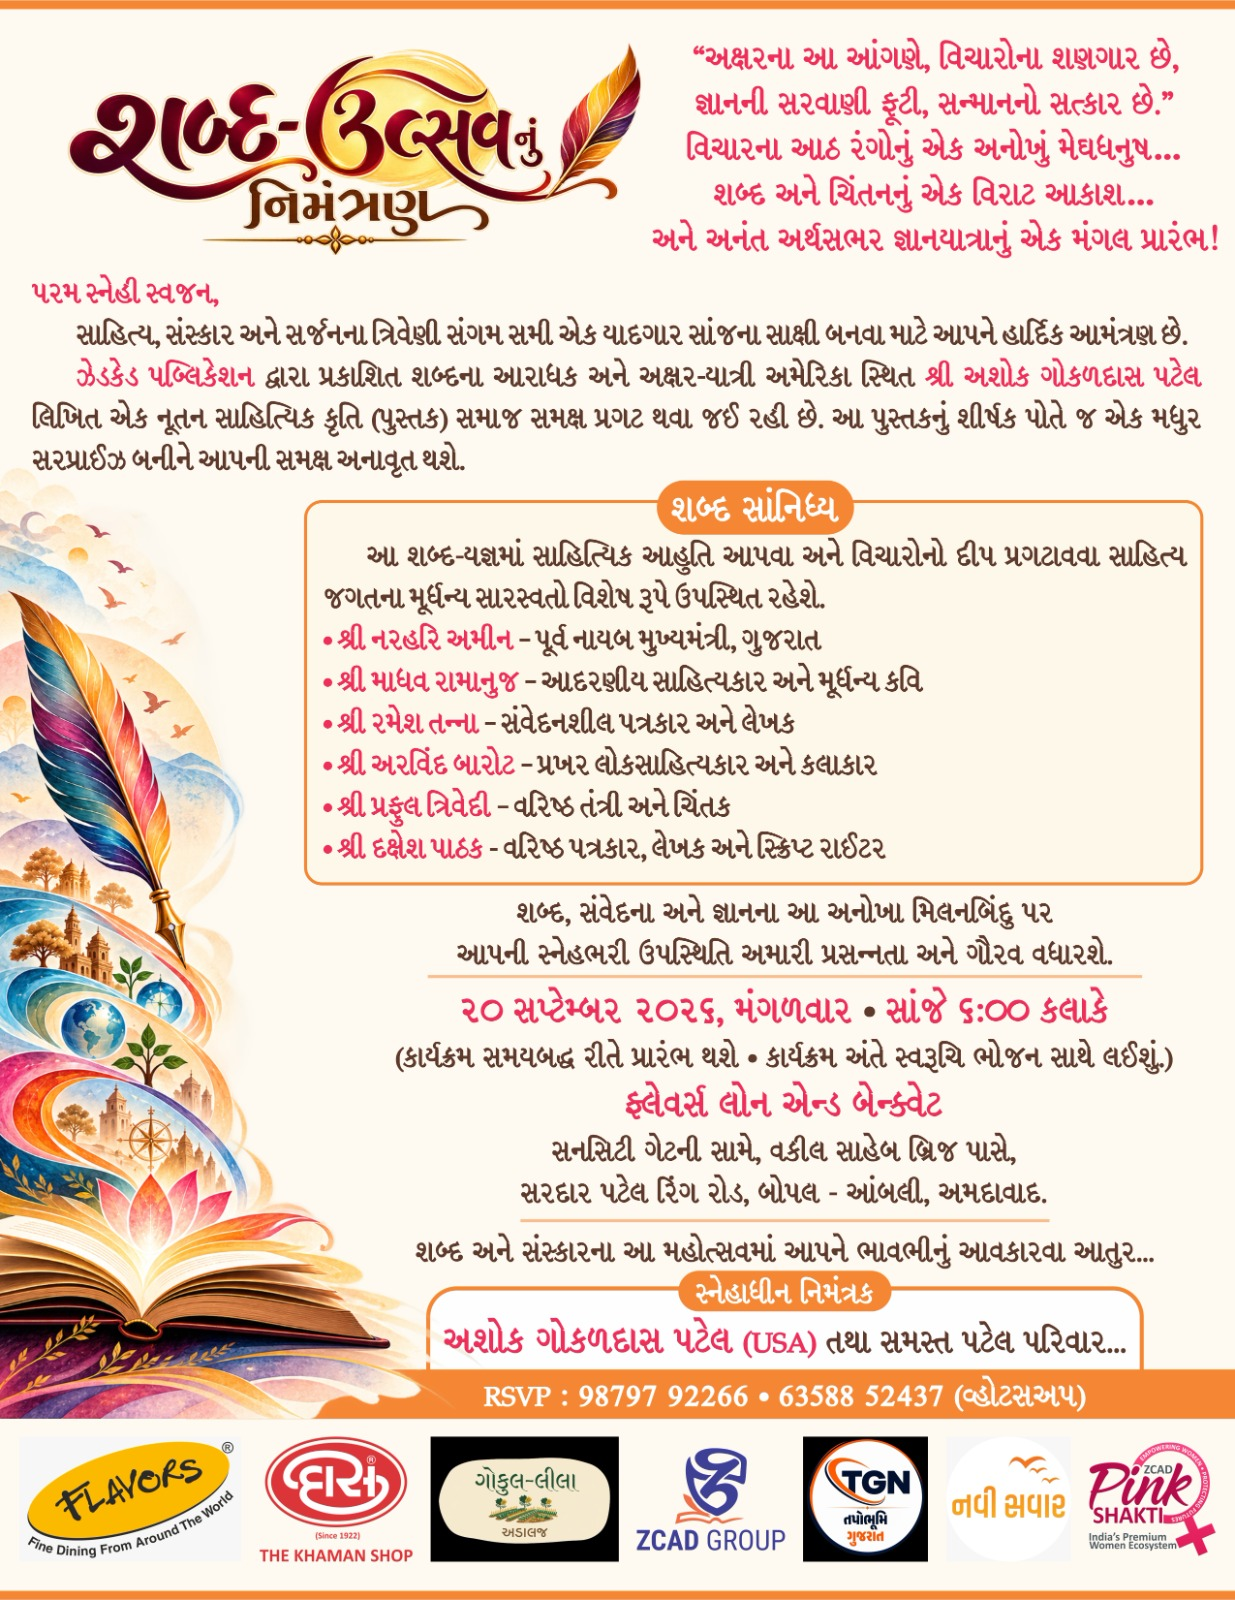
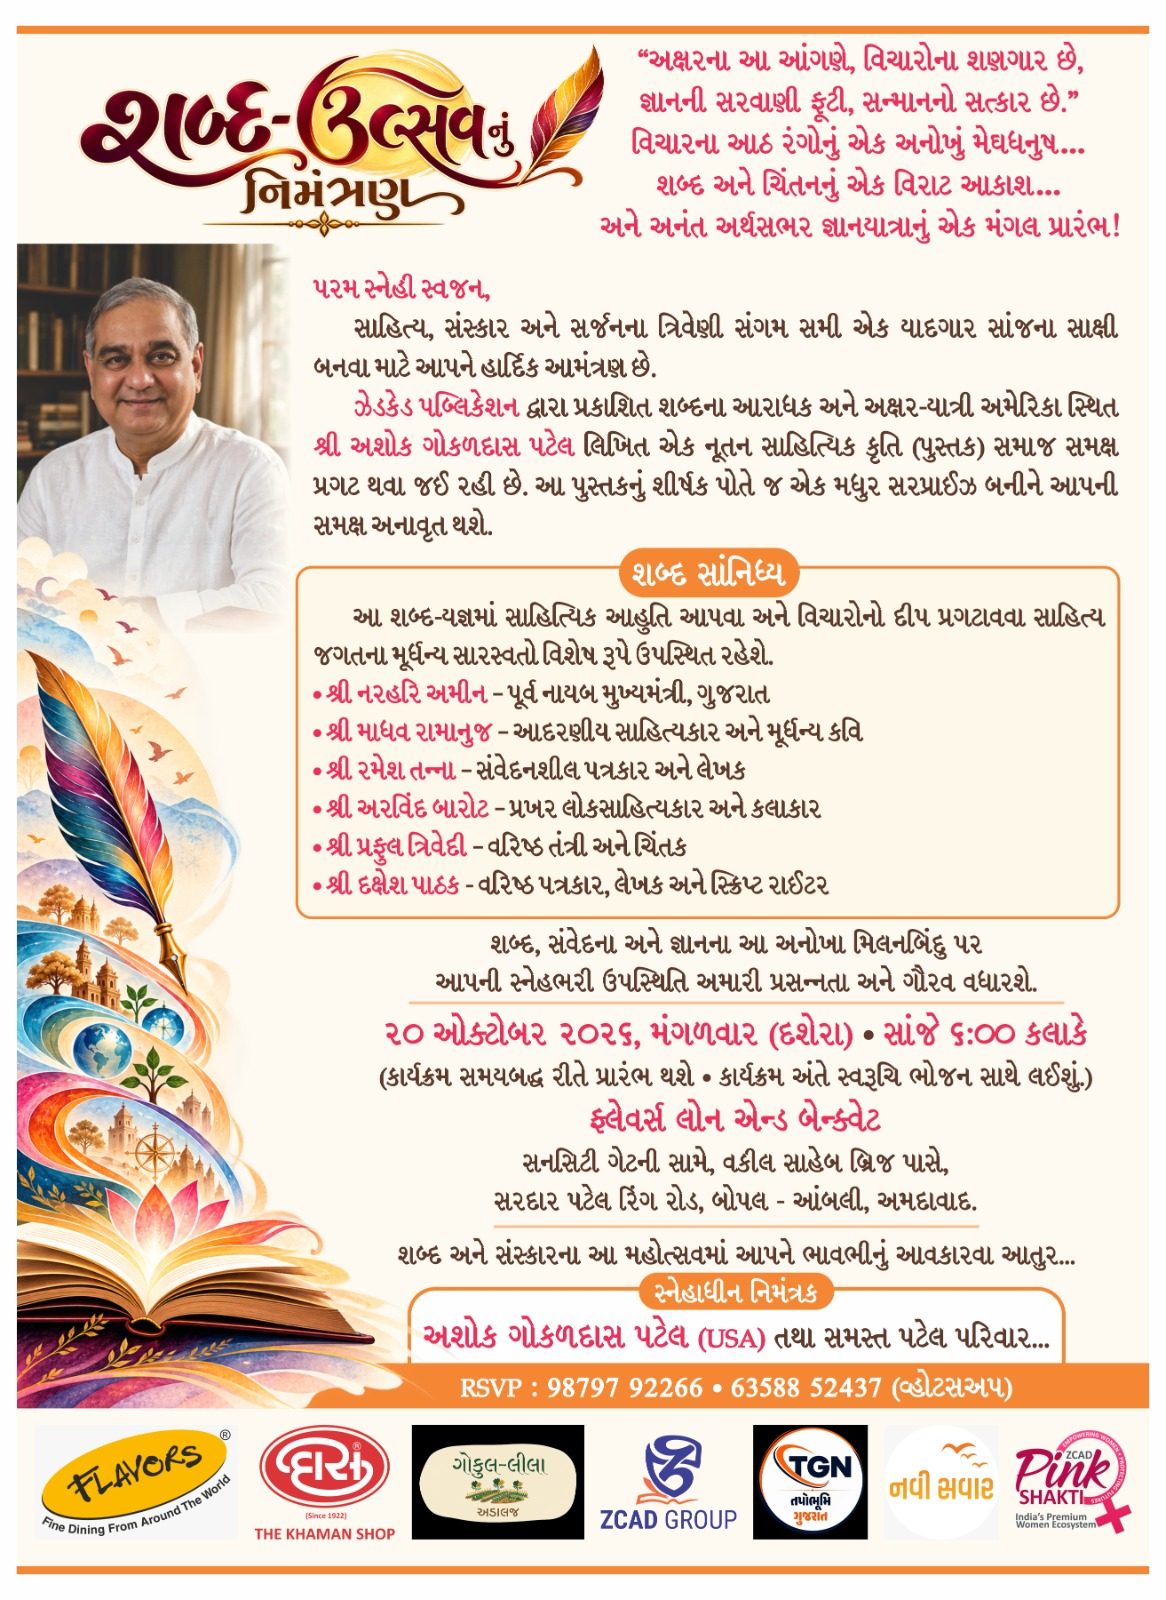
update

diff --git a/index.html b/index.html
@@ -192,7 +192,7 @@
             <p>‘શબ્દ-ઉત્સવ’ અંતર્ગત આયોજિત મારા નૂતન પુસ્તકના વિમોચન સમારોહમાં આપશ્રીની ગરિમામય ઉપસ્થિતિ પ્રેરણારૂપ બની રહેશે. આપના સ્નેહ આશિષ અને પ્રેરણાદાયી શબ્દોથી આ સાહિત્યિક સંધ્યાની શોભા વધારવા આપને ભાવભર્યું આમંત્રણ છે.</p>
             
             <div class="details-box">
-                <p><strong>📅 દિન વિશેષ:</strong> ૨૦ ઓક્ટોબર ૨૦૨૬, મંગળવાર (દશેરા) </p>
+                <p><strong>📅 દિન વિશેષ:</strong> ૨૦ ઓક્ટોબર ૨૦૨૬, મંગળવાર (દશેરા)સ  </p>
                 <p><strong>⏰ સમય:</strong> સાંજે ૬:૦૦ કલાકે</p>
                 <p><strong>📍 સ્થળ:</strong> ફ્લેવર્સ લોન એન્ડ બેન્ક્વેટ, સનસિટી ગેટની સામે, વકીલ સાહેબ બ્રિજ પાસે, સરદાર પટેલ રિંગ રોડ, બોપલ-આંબલી, અમદાવાદ.</p>
             </div>
